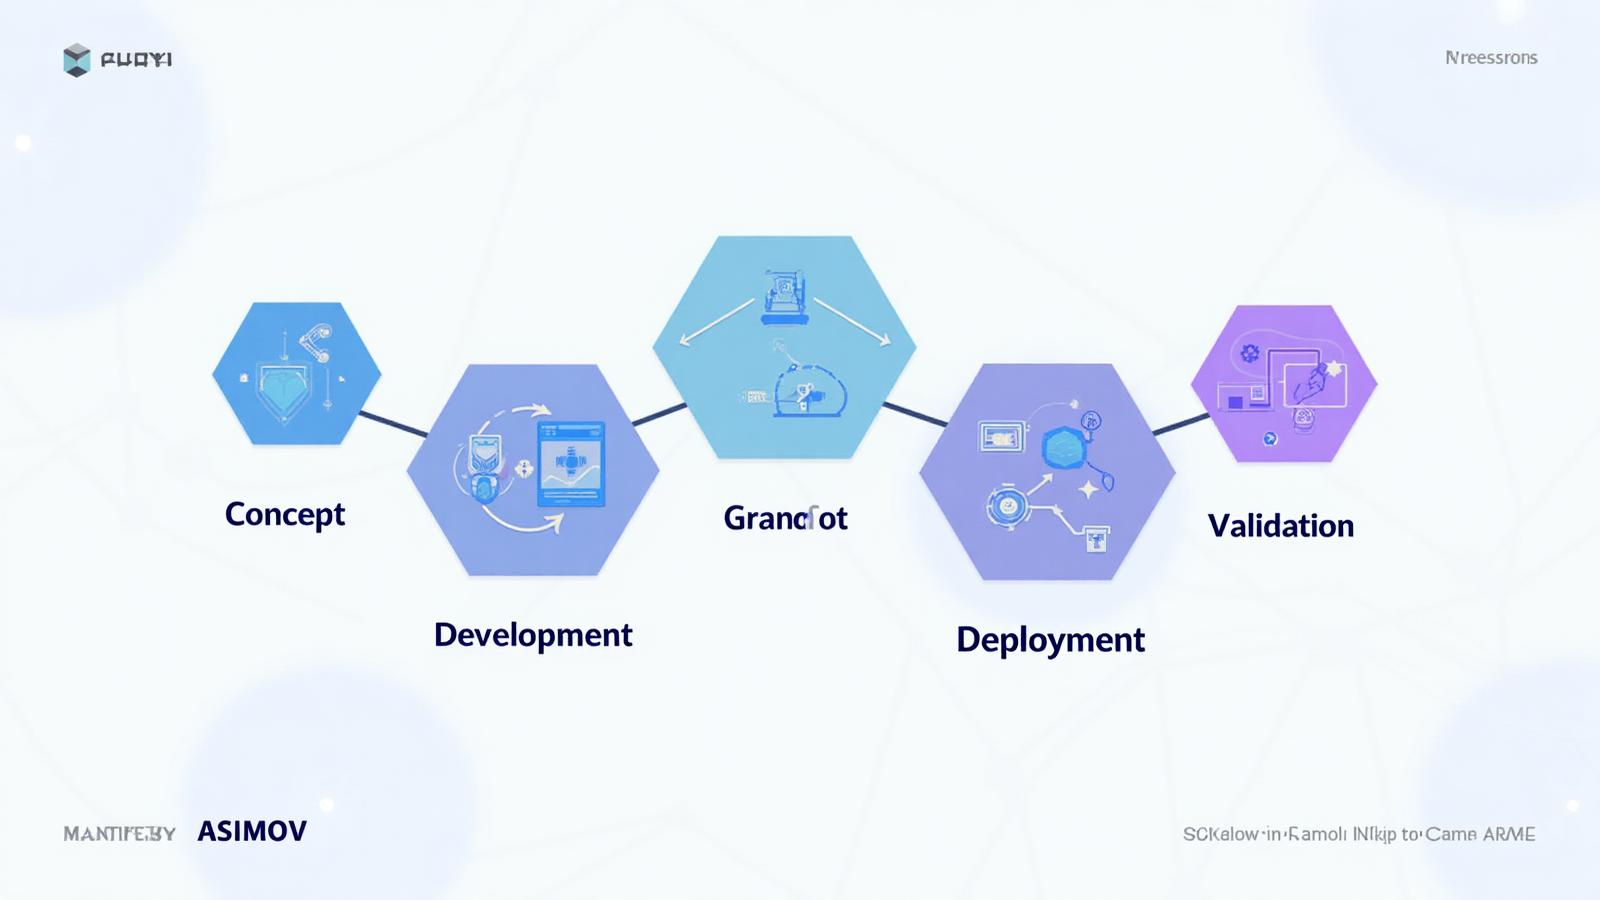
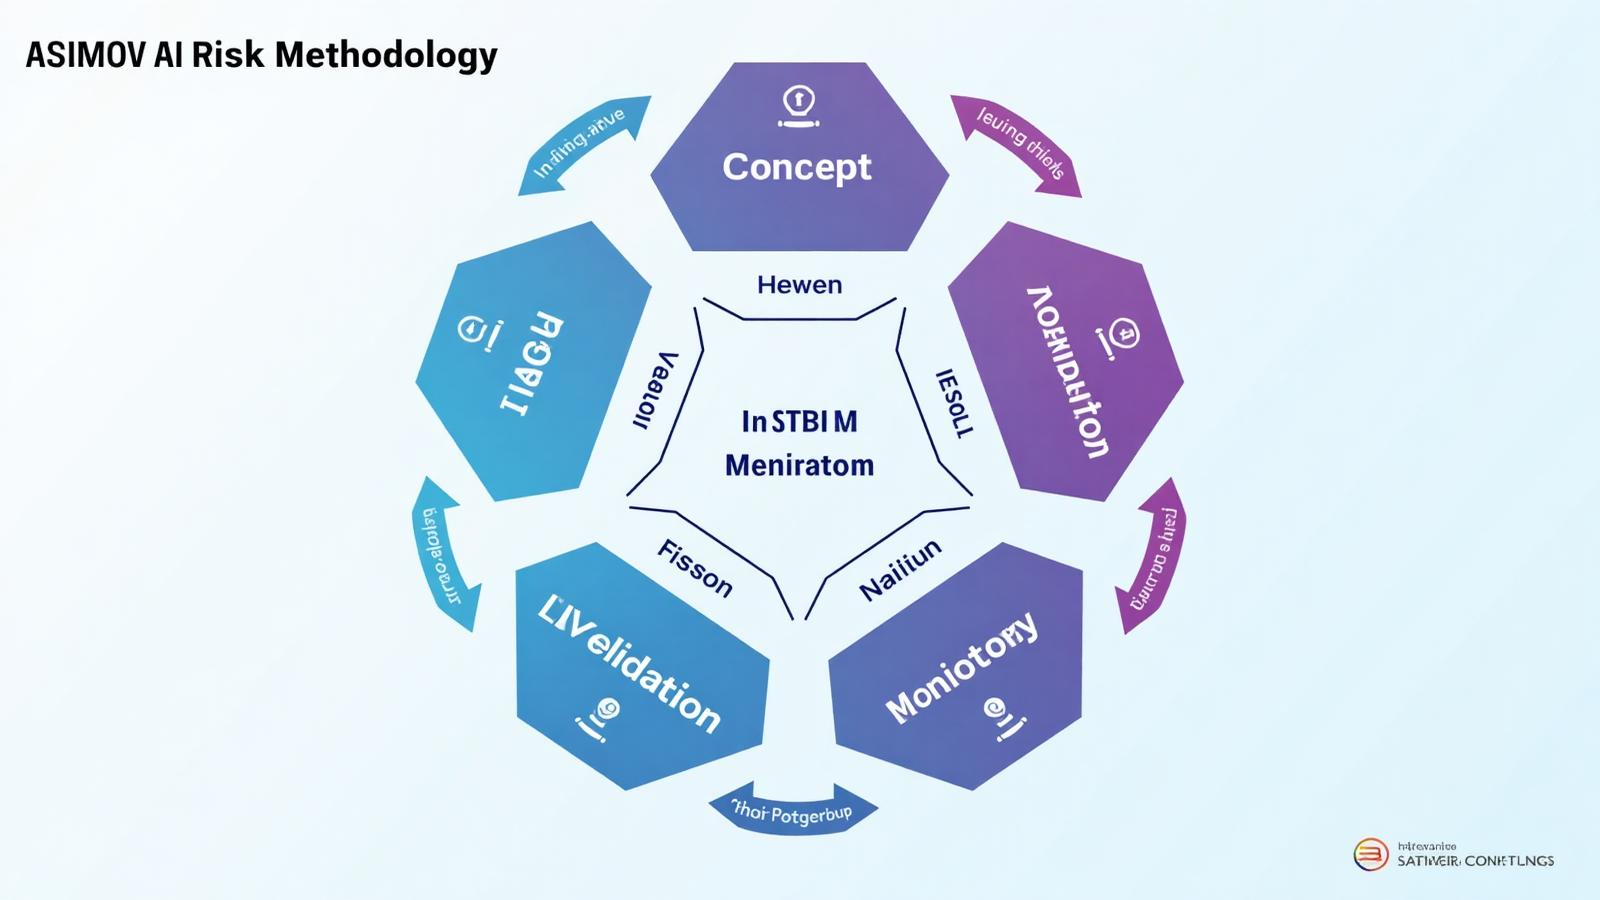
Fix diagram labels

diff --git a/src/pages/Assessment.tsx b/src/pages/Assessment.tsx
@@ -2,7 +2,7 @@ import Navigation from "@/components/Navigation";
 import { Card, CardContent, CardDescription, CardHeader, CardTitle } from "@/components/ui/card";
 import assessmentBg from "@/assets/assessment-bg.jpg";
 import aiCompliance from "@/assets/ai-compliance.jpg";
-import asimovMethod from "@/assets/asimov-method.jpg";
+import asimovIterative from "@/assets/asimov-iterative.jpg";
 import { Button } from "@/components/ui/button";
 import { Input } from "@/components/ui/input";
 import { Textarea } from "@/components/ui/textarea";
@@ -98,17 +98,23 @@ const Assessment = () => {
 
             {/* 5 Core Phases */}
             <div className="mb-16">
-              <h2 className="text-3xl font-bold text-center mb-8">Lifecycle-Based Approach</h2>
-              <p className="text-center text-muted-foreground mb-8 max-w-2xl mx-auto">
-                Five core phases integrated with LifeWise domain experts embedded at concept stage to reduce rework and anticipate sectoral risk
+              <h2 className="text-3xl font-bold text-center mb-8">Iterative Lifecycle Approach</h2>
+              <p className="text-center text-muted-foreground mb-4 max-w-2xl mx-auto">
+                Five core phases integrated with domain experts embedded at concept stage to reduce rework and anticipate sectoral risk
               </p>
+              <div className="flex items-center justify-center gap-2 mb-8">
+                <RefreshCw className="w-5 h-5 text-accent" />
+                <p className="text-center text-accent font-semibold">
+                  This is NOT a waterfall process - each phase can iterate and feed back to previous phases
+                </p>
+              </div>
 
-              {/* ASIMOV Method Infographic */}
+              {/* ASIMOV Iterative Method Infographic */}
               <div className="mb-12 flex justify-center">
                 <div className="relative max-w-5xl">
                   <img 
-                    src={asimovMethod} 
-                    alt="ASIMOV AI Risk Methodology showing five interconnected phases: Concept, Development, Validation, Deployment, and Monitoring" 
+                    src={asimovIterative} 
+                    alt="ASIMOV AI Risk Methodology showing five iterative phases with bidirectional arrows: Concept & Design, Development, Validation & Testing, Deployment, and Monitoring & Review" 
                     className="w-full h-auto rounded-xl shadow-xl"
                   />
                 </div>
